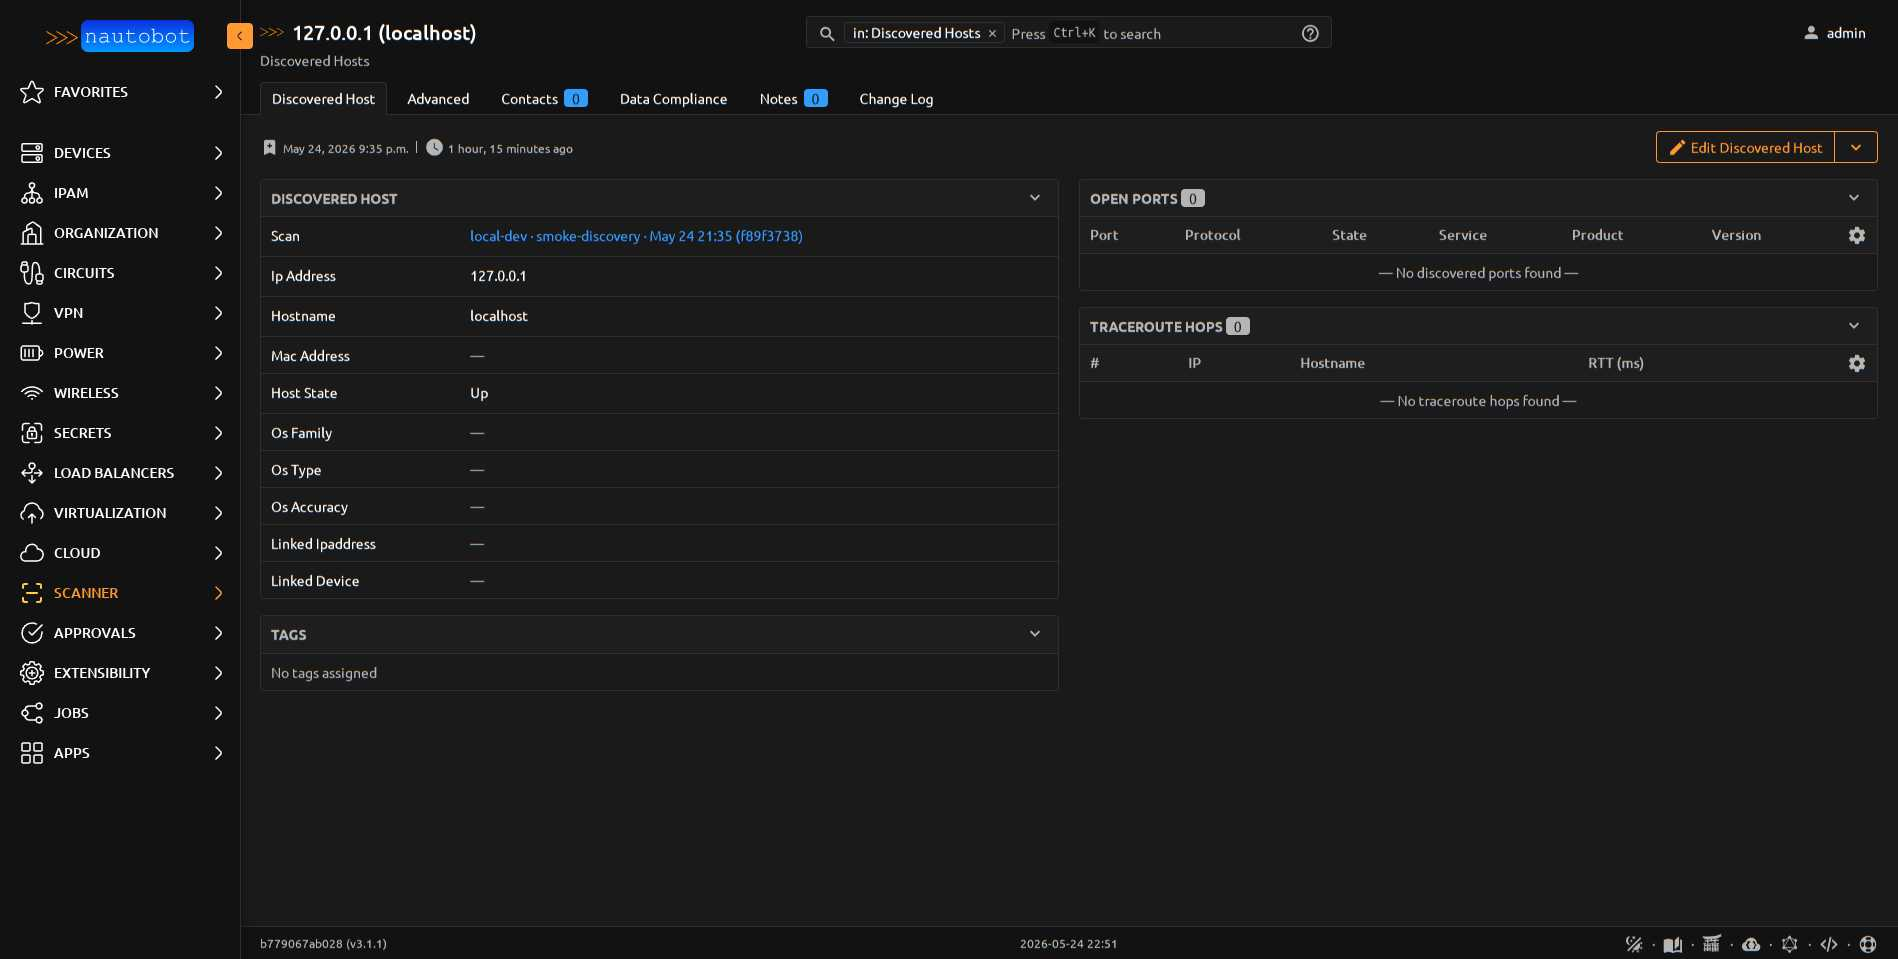
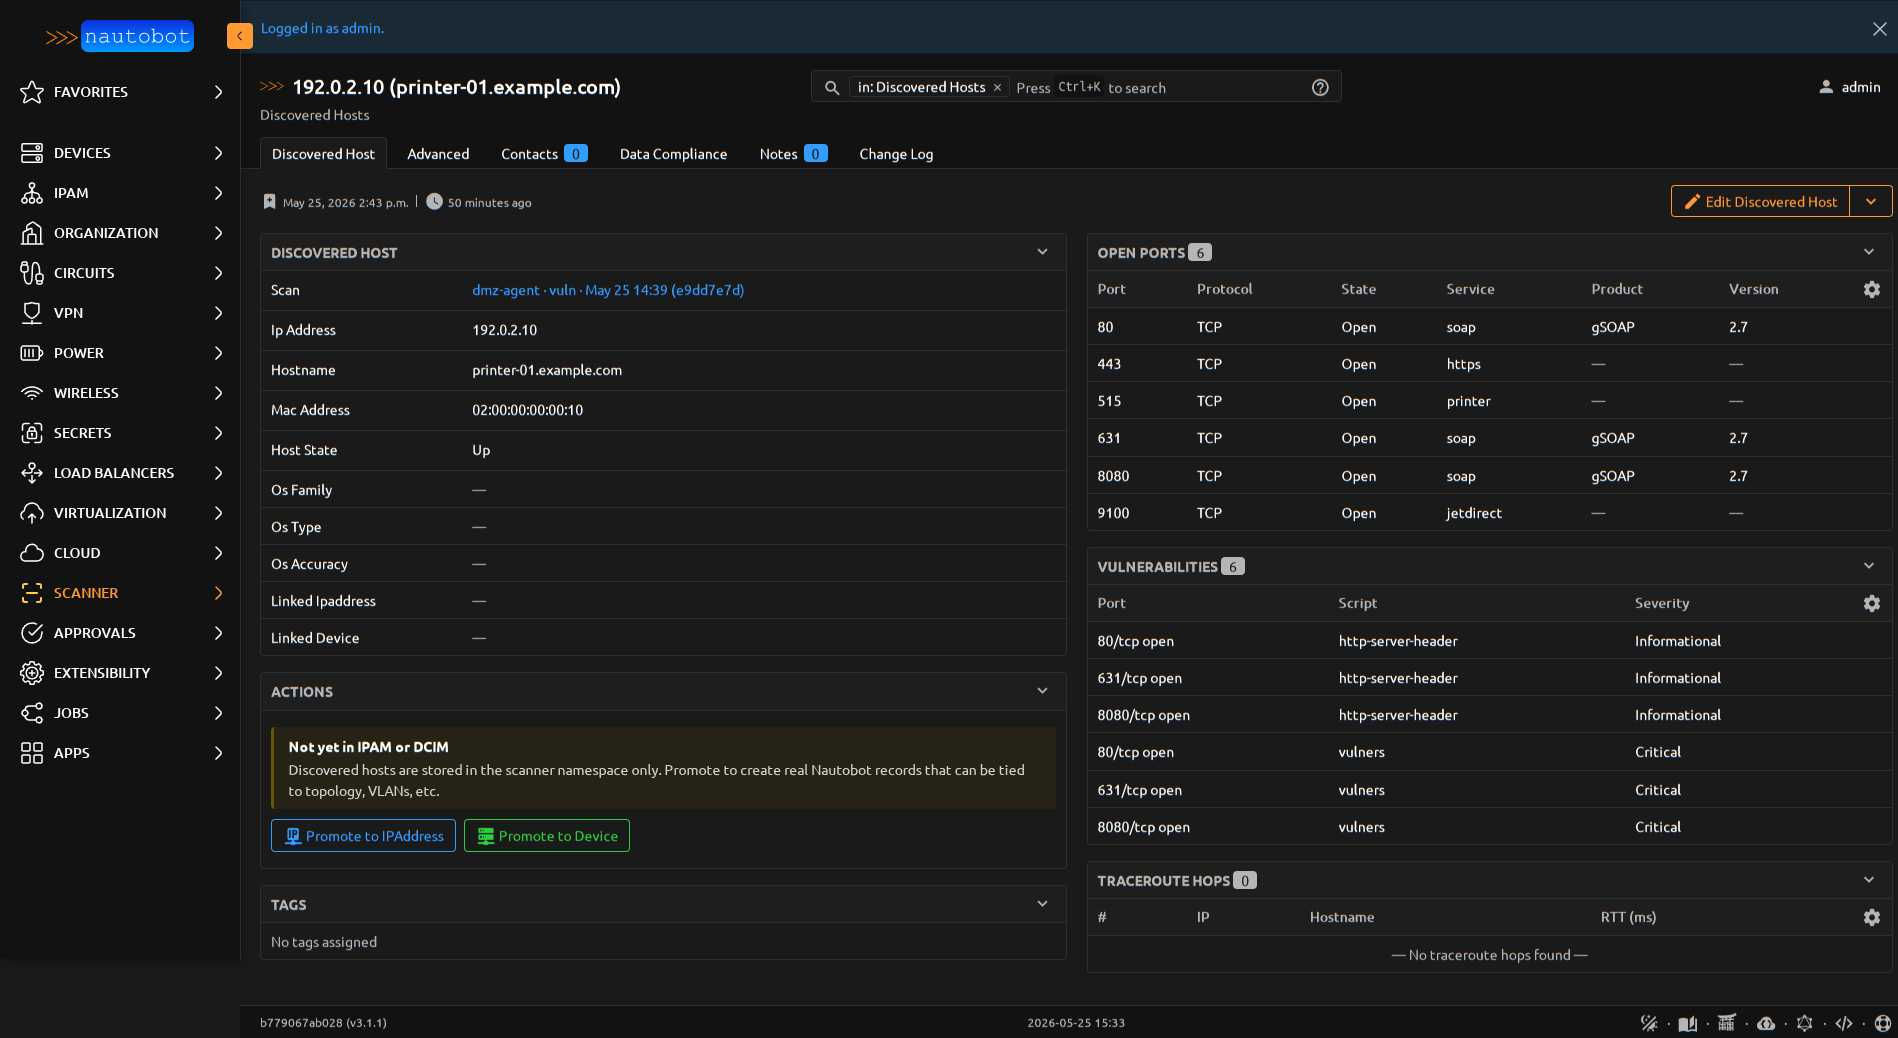
Re-capture committed screenshots with sanitized PII
Two of the 12 files in docs/images/ contained real internal-network
identifiers (rest were either UI shell or loopback-only and verified
clean):

- discoveredhost-detail.png: was showing 192.168.1.10 / hpclj400.idahomuellers.com /
  real MAC 2C:59:E5:D2:AF:8B. Re-captured against the same UUID with a
  JS TreeWalker rewriting text nodes + input values + document.title +
  data-clipboard-text attrs in one pass. Now shows 192.0.2.10 /
  printer-01.example.com / 02:00:00:00:00:10 (RFC 5737 + IANA-reserved
  example.com + locally-administered placeholder MAC).

  Bonus: the new shot also captures the Vulnerabilities panel + Actions
  panel that landed in 89a35fa / 89f9a6c / eea7ae9 — the old screenshot
  was from before any of those features existed.

- promote-to-device-form.png: was showing 10.128.144.0 / blank hostname
  (so the Name field auto-fill fell back to '10', a non-representative
  example). Re-captured against a host that has a real hostname so the
  pre-fill demonstrates the actual UX (Name: db-01 from
  db-01.example.com — sanitized from the docker-internal container name).

models/discoveredhost.md figure caption updated to describe what the
new screenshot actually shows (Vulnerabilities panel + Actions panel +
sanitization note).

The TreeWalker pattern that worked here:

  - SHOW_TEXT walk for all visible text content
  - Separate pass for <input>/<textarea>.value (attribute, not text node)
  - document.title rewrite (browser tab area in screenshot)
[…]

diff --git a/docs/models/discoveredhost.md b/docs/models/discoveredhost.md
@@ -5,8 +5,8 @@ One host nmap reported during a scan. Identity is `(scan, ip_address)`
 historical per-scan state is preserved.
 
 <figure markdown>
-![DiscoveredHost detail with nested Open Ports and Traceroute Hops tables](../images/discoveredhost-detail.png)
-<figcaption>DiscoveredHost detail — the BaseModel child records (Open Ports, Traceroute Hops) render as nested tables on the host's own page.</figcaption>
+![DiscoveredHost detail with nested Open Ports, Vulnerabilities, and Traceroute Hops tables](../images/discoveredhost-detail.png)
+<figcaption>DiscoveredHost detail after a `vuln` profile scan. Left column: host fields + the **Actions** panel with Promote-to-IPAddress / Promote-to-Device buttons. Right column: nested tables for Open Ports (6 services), Vulnerabilities (3 Critical `vulners` + 3 Informational `http-server-header`), and Traceroute Hops. IP and hostname are sanitized to RFC-5737 / `.example.com` placeholders.</figcaption>
 </figure>
 
 | Field | Description |
